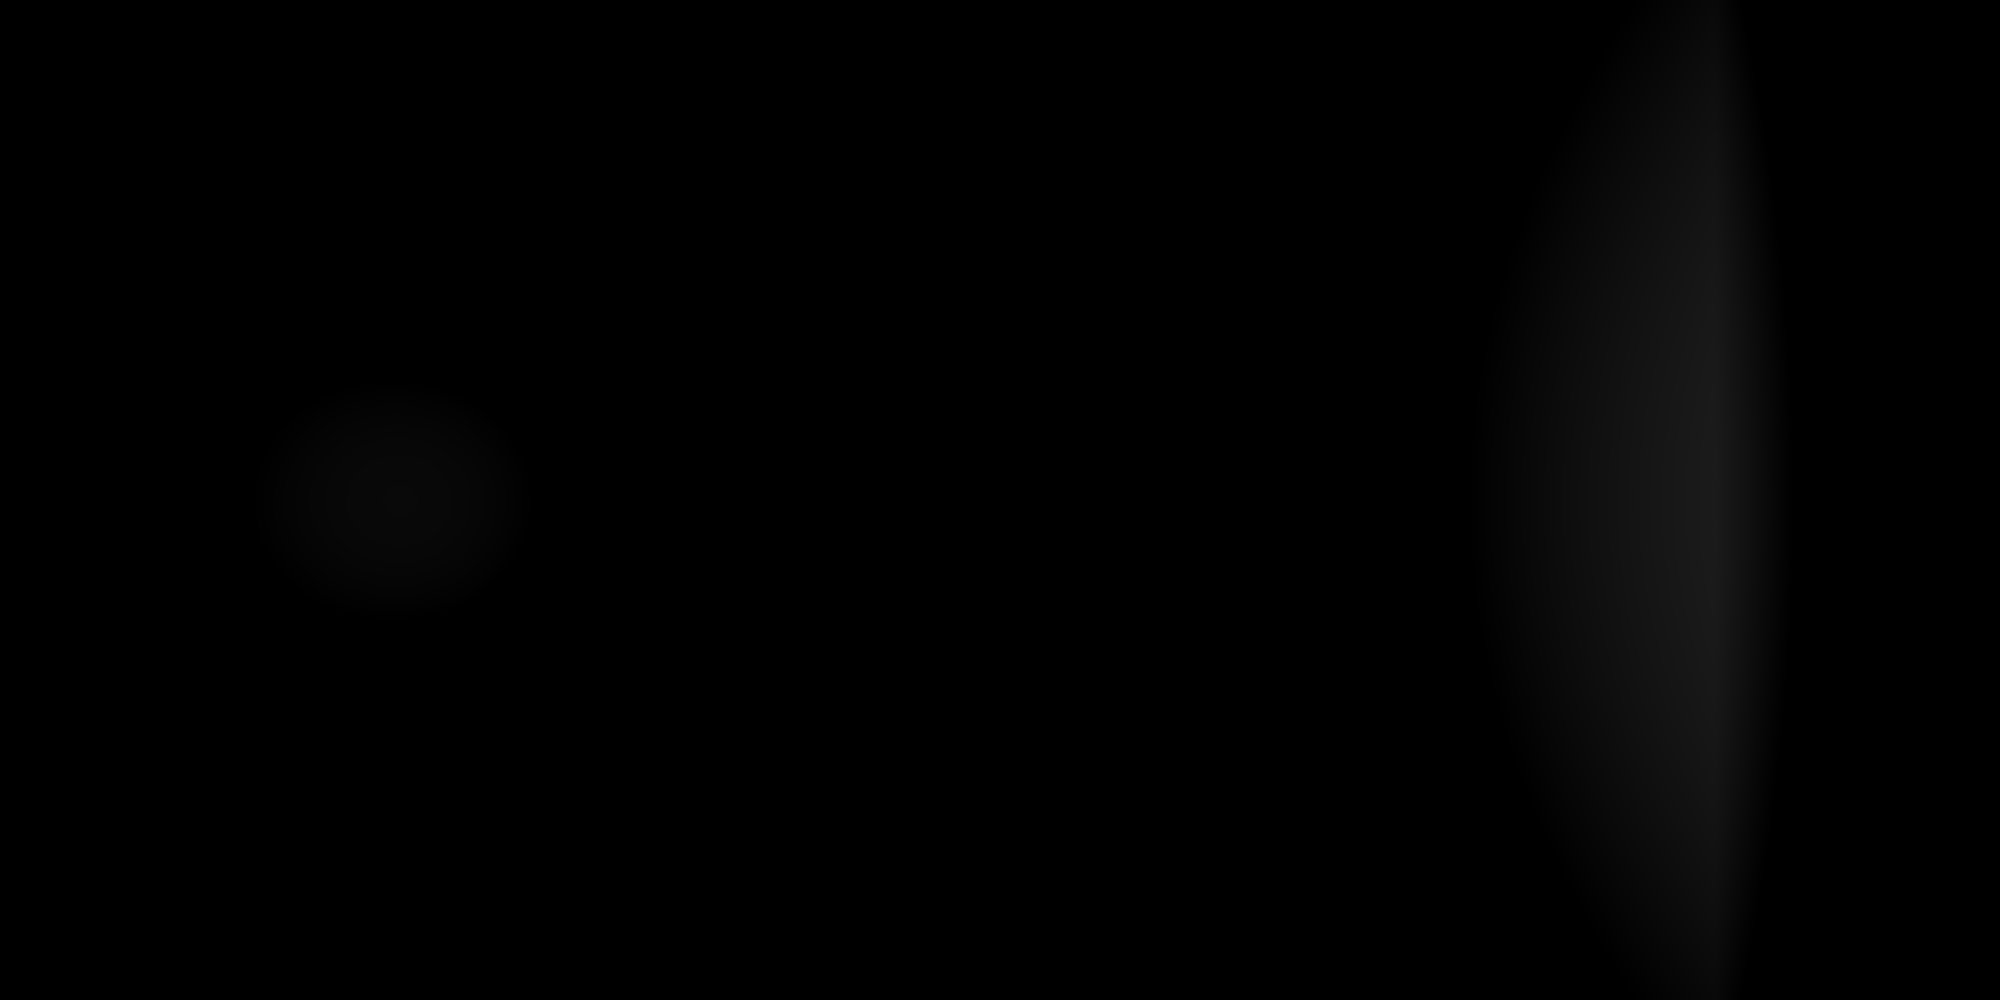
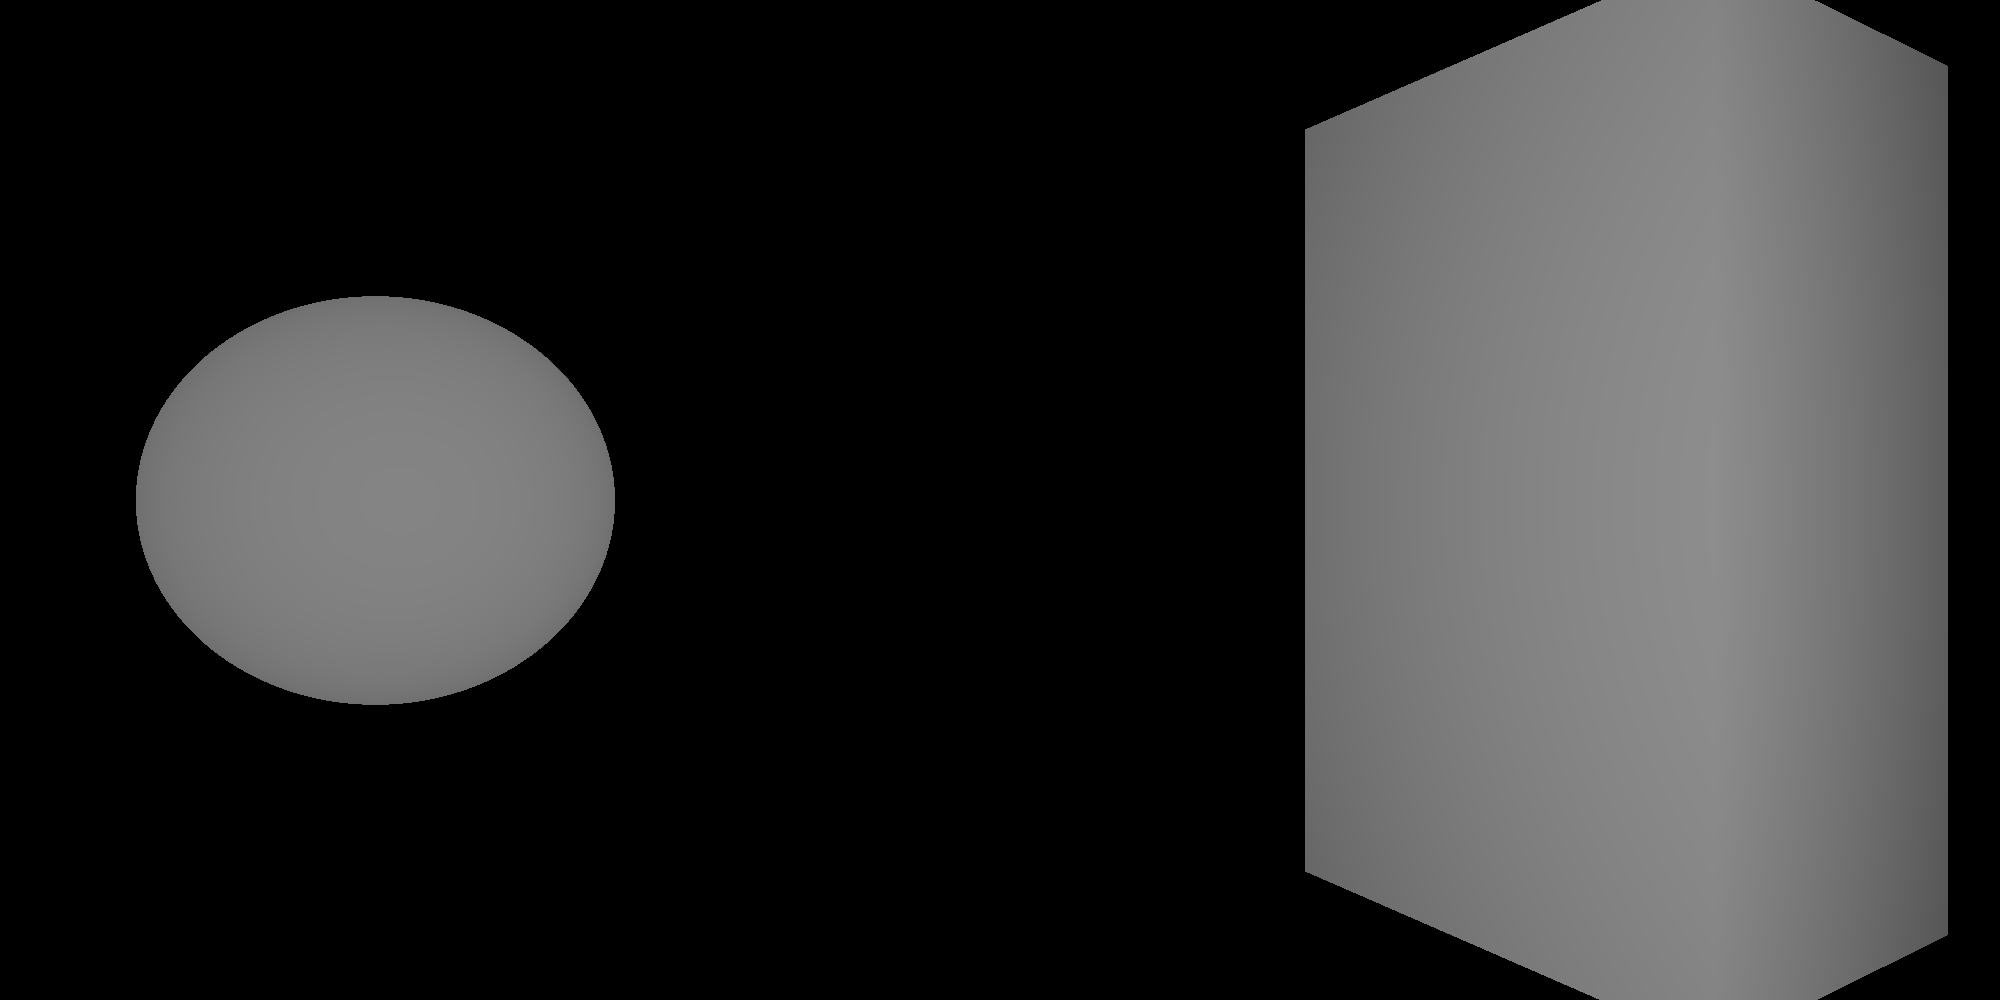
Made depth buffer a bit more visible

diff --git a/src/scene.rs b/src/scene.rs
@@ -136,7 +136,7 @@ impl Render {
                 let g = (og * 255.0).round() as u8;
                 let b = (ob * 255.0).round() as u8;
                 let occ = (occl * 255.0).round() as u8;
-                let depthu = 255 - (depth / 5.0 * 255.0).round() as u8;
+                let depthu = 255 - (depth / 10.0 * 255.0).round() as u8;
                 let mind_powed = (1.0 - mind).powf(25.0);
                 let mind = 255 - (mind / 5.0 * 205.0).round() as u8;
 
